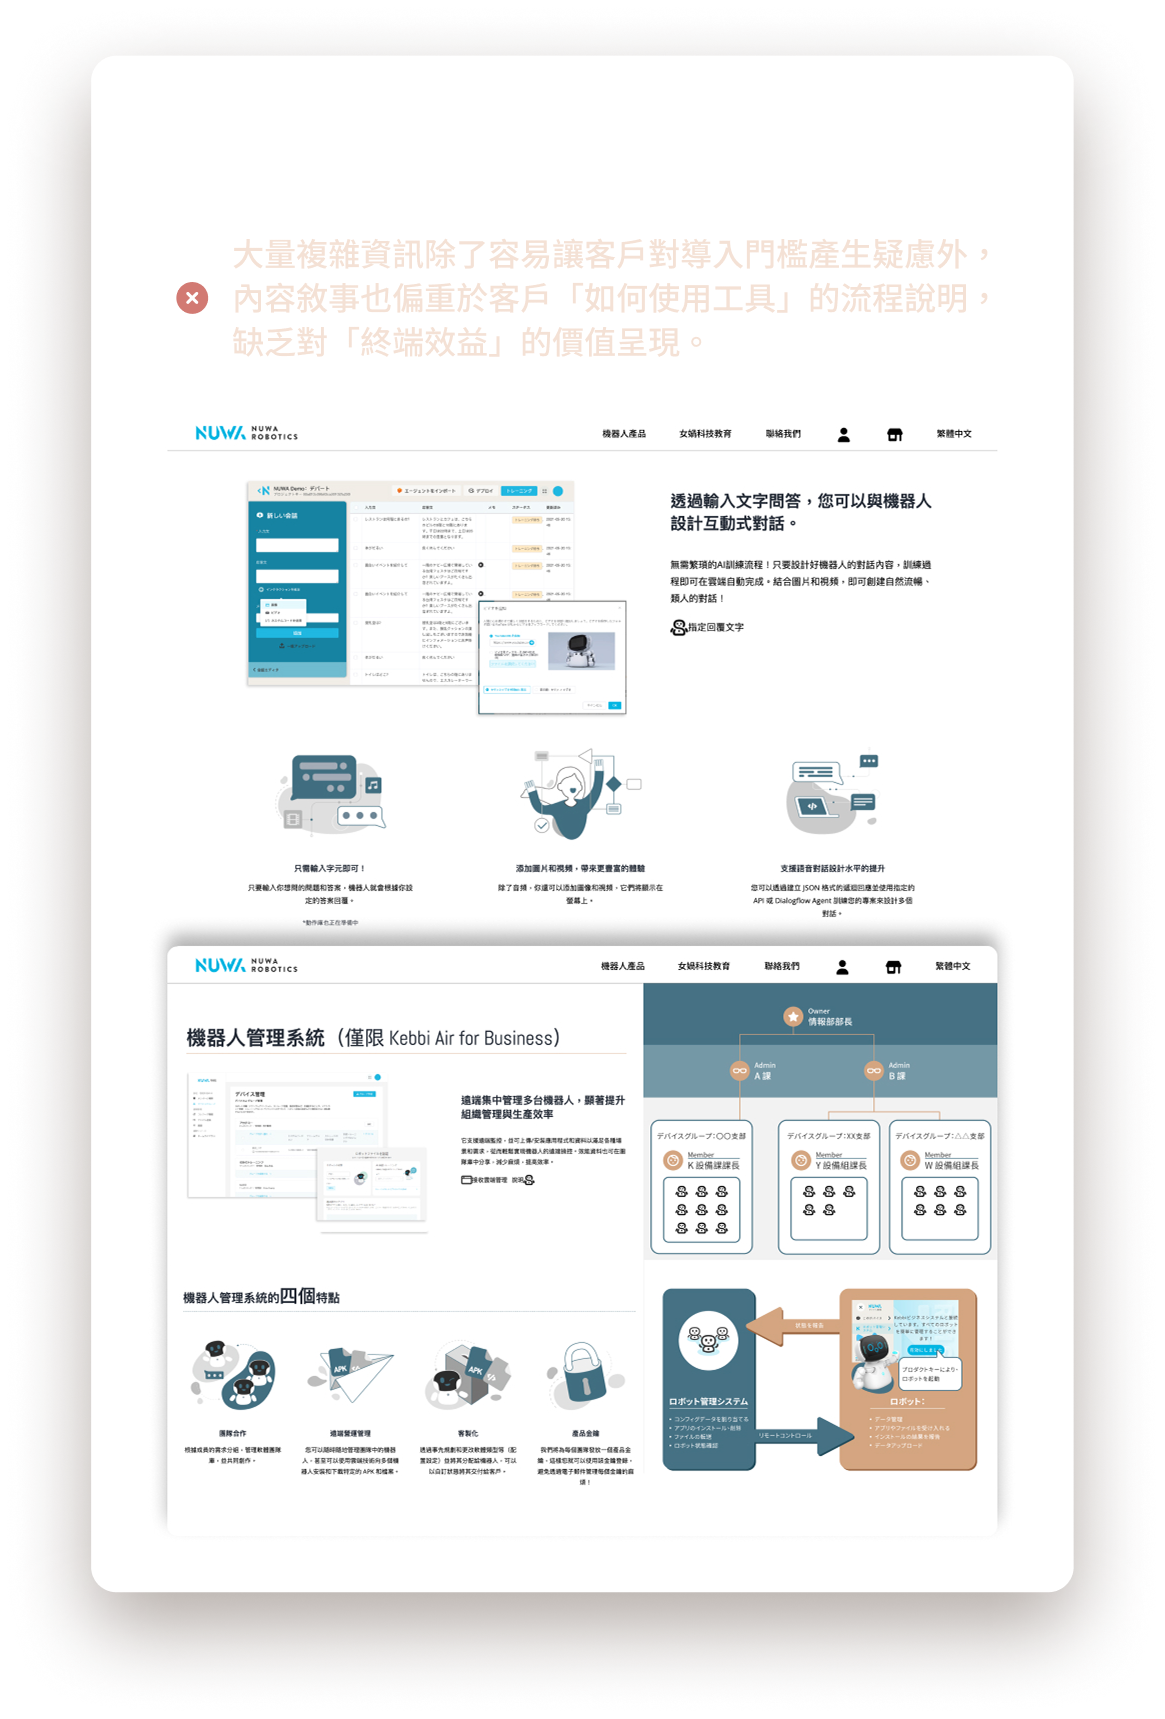
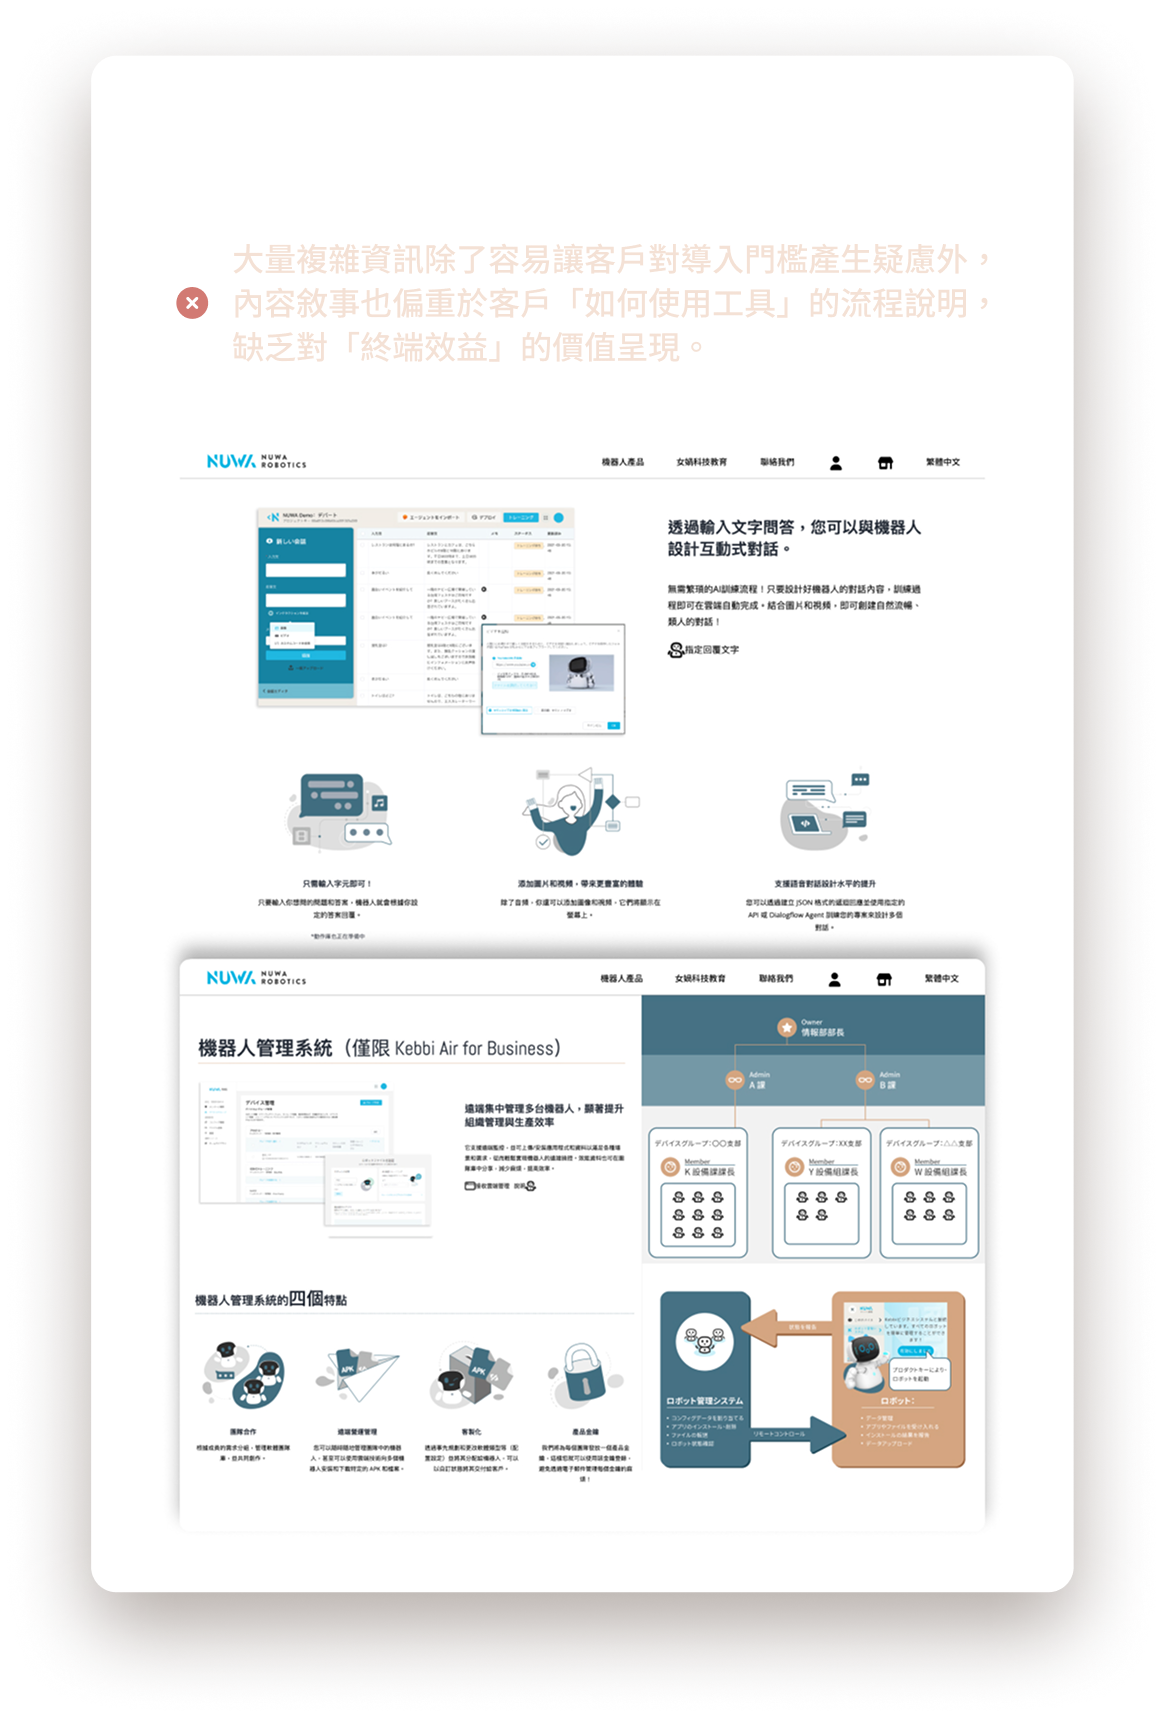
case01+case02 五項調整（batch 0729b）
1. case02-d-before-left-tw 換更新版（同尺寸就地置換）
2. case02 影片 down 再往下 10px（native，tw 63.9→64.48%、en 65.01→65.59%）；upper 不動
3. case02 RaaS 圖 rwd 四角上下兩排垂直間距 ×2（aspect-ratio 1/1.15→1/1.82，實測 gap 202→405、2.01×）；web 不變
4. case01 核心痛點圖左右內距 5px → 1.5%（比例，只 web）
5. case01 優化成果 tooltip 改版：
   - web：滑鼠移到可切換區塊→tooltip 跟隨鼠標並漸顯、停滯 2 秒漸消、再動再顯、移出消失（case-sync-i18n.js 加 initTooltipFollow）
   - rwd：tooltip 常駐，base-1 往下 60px、base-3 往下 30px（區塊加 data-block 標記）；縮到 rwd 時清 web inline 樣式讓 CSS 接手

diff --git a/src/styles/components.css b/src/styles/components.css
@@ -1172,8 +1172,8 @@ footer .cr {
 
 .cs-figure--flow {
   margin-top: 40px;
-  /* web：核心痛點歸納圖左右各加 5px 內距（上下 0）；rwd 由下方 @media(max-width:760px) .cs-figure 覆蓋回 12px，不受影響 */
-  padding: 0 5px;
+  /* web：核心痛點歸納圖左右各加 1.5% 內距（上下 0，取代原 5px）；rwd 由下方 @media(max-width:760px) .cs-figure 覆蓋回 12px，不受影響 */
+  padding: 0 1.5%;
 }
 
 .cs-solution-slot {
@@ -1238,7 +1238,7 @@ footer .cr {
    top = 280/2613 = 10.72%（中）；right = 45/799 = 5.63%。桌機 hover/focus 才現；手機常駐 */
 .sol-tip {
   position: absolute;
-  top: 10.72%;
+  top: 10.72%;   /* 預設位置：web 鍵盤 focus / rwd 常駐用；web 滑鼠移動時由 JS 改成跟隨鼠標 */
   right: 5.63%;
   padding: 7px 14px;
   border-radius: 999px;
@@ -1247,24 +1247,25 @@ footer .cr {
   font-size: 13px;
   line-height: 1;
   white-space: nowrap;
-  pointer-events: none;
+  pointer-events: none; /* 不擋 button 的 mousemove，跟隨才順 */
   backdrop-filter: blur(4px);
   border: 1px solid rgba(250, 240, 234, 0.18);
+  opacity: 0;
+  transition: opacity 0.25s ease;
 }
-/* 英文版底圖較高（native 5444，設計稿 2722）：top = 280/2722 = 10.29% */
 html[lang="en"] .sol-tip {
   top: 10.29%;
 }
-
-@media (hover: hover) {
-  .sol-tip {
-    opacity: 0;
-    transition: opacity 0.2s ease;
-  }
-  .solution-toggle:hover .sol-tip,
-  .solution-toggle:focus-visible .sol-tip {
-    opacity: 1;
-  }
+/* web（hover 裝置）：滑鼠移到圖上→JS 讓 tooltip 跟隨鼠標並漸顯、停 2 秒漸消、再動再顯、移出消失；
+   鍵盤 focus 則顯示於預設右上位置 */
+@media (min-width: 761px) {
+  .solution-toggle:focus-visible .sol-tip { opacity: 1; }
+}
+/* rwd（≤760，觸控）：tooltip 常駐；各區塊位置微調——base-1 往下 60px、base-3 往下 30px */
+@media (max-width: 760px) {
+  .sol-tip { opacity: 1; }
+  [data-block="1"] .sol-tip { transform: translateY(60px); }
+  [data-block="3"] .sol-tip { transform: translateY(30px); }
 }
 
 @media (prefers-reduced-motion: reduce) {
@@ -1558,7 +1559,7 @@ html[lang="en"] .sol-tip {
 
 /* rwd：<620px 窄版排列（比照 prototype） */
 @media (max-width: 620px) {
-  .raas-quad { max-width: 400px; aspect-ratio: 1 / 1.15; }
+  .raas-quad { max-width: 400px; aspect-ratio: 1 / 1.82; } /* 拉高畫布把上下兩排垂直間距 ×2（原 1/1.15，兩排 gap 202→約 404）*/
   .raas-node { width: 150px; }
   .raas-cicon { width: 96px; height: 96px; }
   .raas-cicon svg { width: 96px; height: 96px; } /* 窄版 icon 同步放大 2 倍（48→96） */
@@ -1643,9 +1644,9 @@ html[lang="en"] .sol-tip {
 }
 /* top：在原值上再往下 30px。底圖 PNG native 高 1719（含 43px 留白那圈），30/1719 ≈ 1.75%，% 相對整張 PNG */
 .flow-vid--upper { top: 32.95%; }  /* tw：31.2 + 1.75 */
-.flow-vid--down  { top: 63.9%; }   /* tw：62.15 + 1.75 */
+.flow-vid--down  { top: 64.48%; }  /* tw：63.9 + 再往下 10px（10/1719≈0.58%）；upper 不動 */
 html[lang="en"] .flow-vid--upper { top: 35.7%; }  /* en：33.95 + 1.75 */
-html[lang="en"] .flow-vid--down  { top: 65.01%; } /* en：63.26 + 1.75 */
+html[lang="en"] .flow-vid--down  { top: 65.59%; } /* en：65.01 + 10px（0.58%）*/
 
 .flow-gap-l { height: 56px; }
 .flow-gap-m { height: 44px; }

diff --git a/src/js/case-sync-i18n.js b/src/js/case-sync-i18n.js
@@ -68,6 +68,35 @@ function initSolutionToggles() {
   });
 }
 
+// web 版 tooltip：滑鼠移到可切換區塊上 → tooltip 跟隨鼠標並漸顯；停滯 2 秒漸消；再移動再漸顯；移出消失。
+// rwd（≤760，觸控）不套用——tooltip 由 CSS 常駐定位。
+function initTooltipFollow() {
+  const web = () => window.matchMedia('(min-width: 761px)').matches;
+  document.querySelectorAll('[data-sol-toggle]').forEach((btn) => {
+    const tip = btn.querySelector('.sol-tip');
+    if (!tip) return;
+    let idle;
+    btn.addEventListener('mousemove', (e) => {
+      if (!web()) return;
+      const r = btn.getBoundingClientRect();
+      tip.style.left = `${e.clientX - r.left + 14}px`;
+      tip.style.top = `${e.clientY - r.top + 14}px`;
+      tip.style.right = 'auto';
+      tip.style.opacity = '1';
+      clearTimeout(idle);
+      idle = setTimeout(() => { tip.style.opacity = '0'; }, 2000); // 停滯 2 秒漸消
+    });
+    btn.addEventListener('mouseleave', () => {
+      clearTimeout(idle);
+      if (web()) tip.style.opacity = '0';
+    });
+  });
+  // 切到 rwd 時清掉 web 留下的 inline 樣式，讓 CSS 常駐/定位接手
+  window.addEventListener('resize', () => {
+    if (!web()) document.querySelectorAll('[data-sol-toggle] .sol-tip').forEach((t) => { t.style.cssText = ''; });
+  });
+}
+
 export function initCaseSyncI18n() {
   const btn = document.getElementById('langBtn');
   if (btn) {
@@ -78,5 +107,6 @@ export function initCaseSyncI18n() {
     });
   }
   initSolutionToggles();
+  initTooltipFollow();
   apply();
 }

diff --git a/work-sync-management.html b/work-sync-management.html
@@ -142,7 +142,7 @@
       <div class="cs-solution-slot rv">
         <div class="sol-blocks">
           <!-- 區塊 1：優化前/後，點擊硬切 -->
-          <button type="button" class="solution-toggle" data-sol-toggle
+          <button type="button" class="solution-toggle" data-sol-toggle data-block="1"
                   data-tip-before="solB1TipToAfter" data-tip-after="solB1TipToBefore"
                   data-aria-before="solB1AriaBefore" data-aria-after="solB1AriaAfter">
             <img class="sol-img sol-before" data-src-k="solB1Before" src="/assets/case-diagrams/solution-base-1-before-tw.png" alt="" loading="lazy">
@@ -152,7 +152,7 @@
           <!-- 區塊 2：固定 -->
           <img class="sol-img sol-block-static" data-src-k="solB2" data-alt-k="solB2Alt" src="/assets/case-diagrams/solution-base-2-tw.png" alt="" loading="lazy">
           <!-- 區塊 3：同步變化，點擊硬切 -->
-          <button type="button" class="solution-toggle" data-sol-toggle
+          <button type="button" class="solution-toggle" data-sol-toggle data-block="3"
                   data-tip-before="solB3Tip" data-tip-after="solB3Tip"
                   data-aria-before="solB3AriaBefore" data-aria-after="solB3AriaAfter">
             <img class="sol-img sol-before" data-src-k="solB3Before" src="/assets/case-diagrams/solution-base-3-before-tw.png" alt="" loading="lazy">
